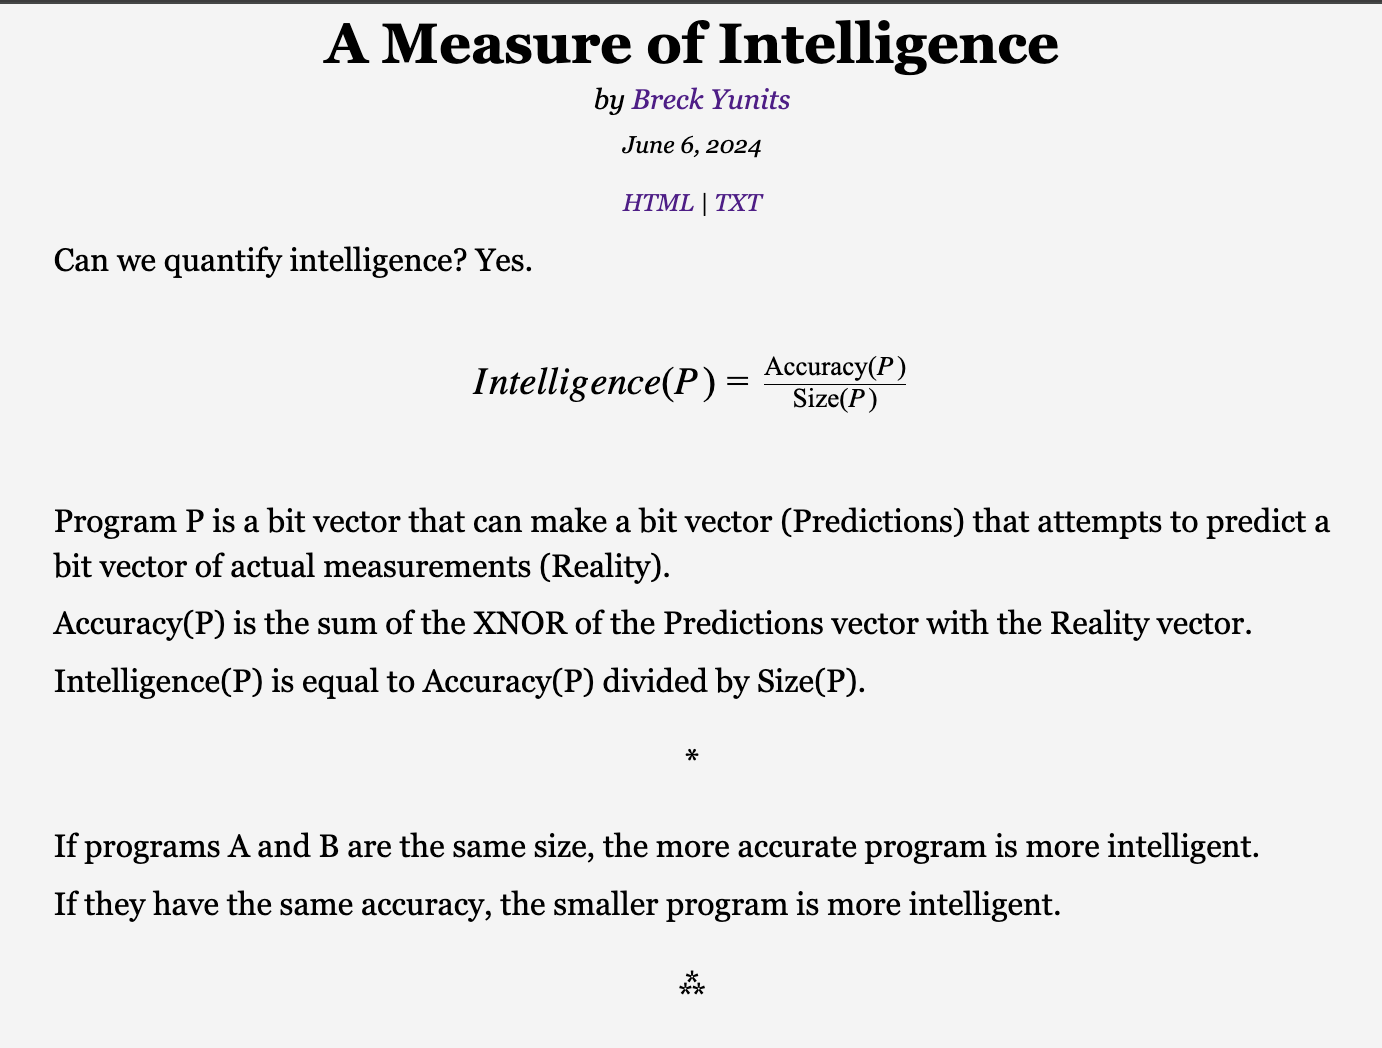
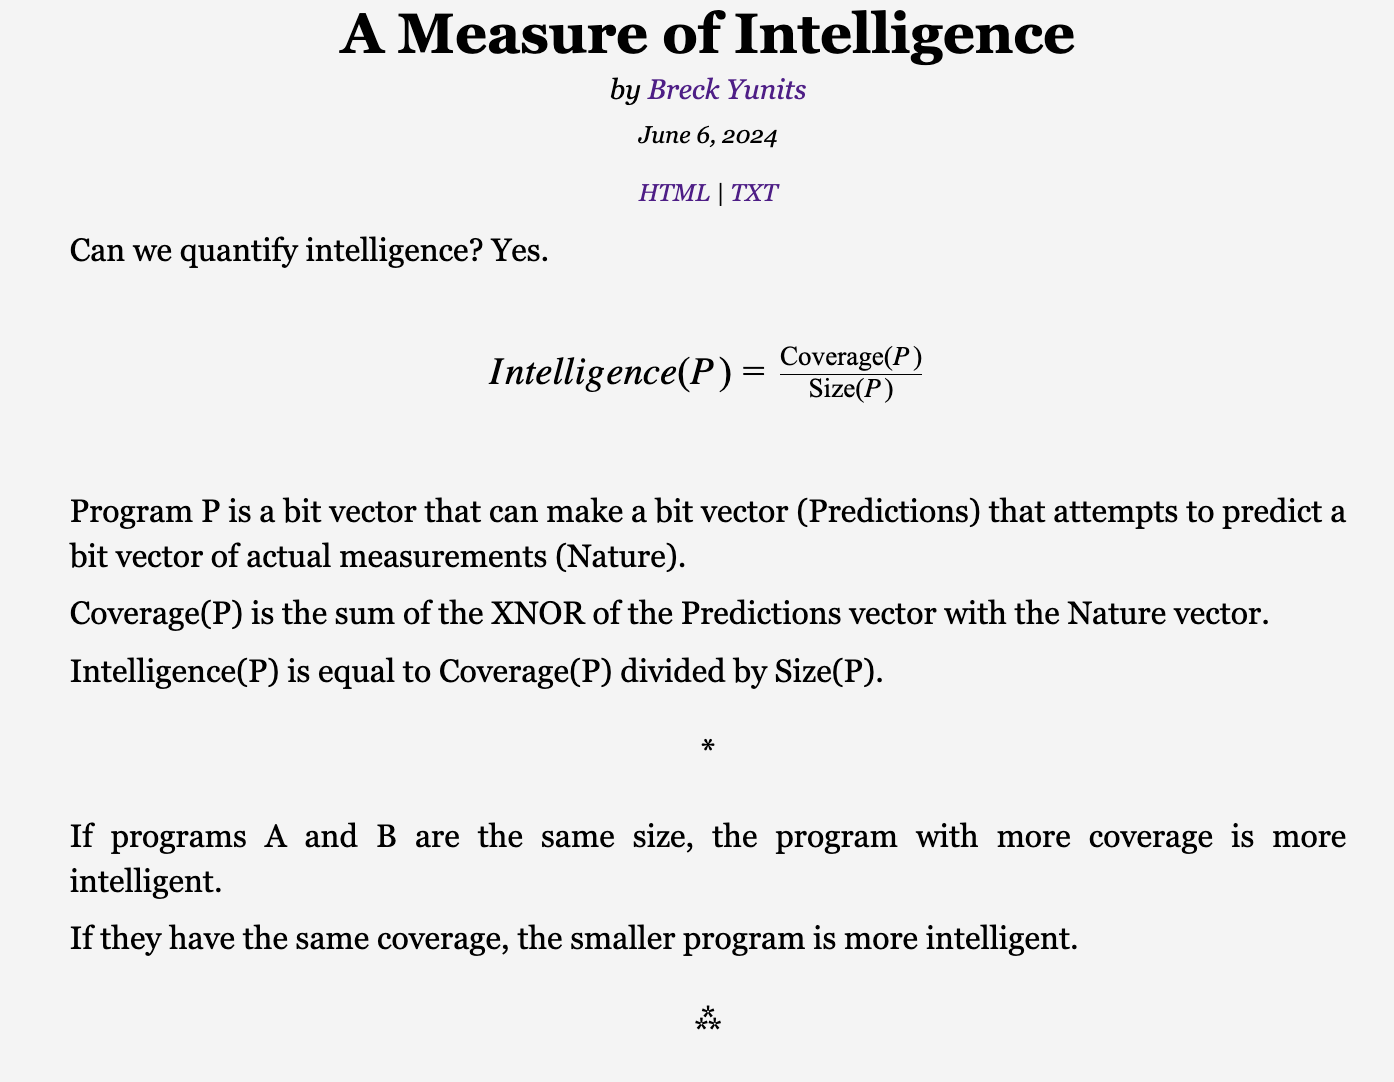
Deploying to scroll-output from @ thepiyushmalhotra/breckyunits.com@ff49966cba011bf642931cb9d87caeae7a22509f 🚀

diff --git a/intelligence.html b/intelligence.html
@@ -383,15 +383,15 @@ document.addEventListener("DOMContentLoaded", () => document.querySelectorAll(".
 ))
 </script>
 
-<div class="scrollKatex" id="1">{Intelligence}(P) = \frac{\text{Accuracy}(P)}{\text{Size}(P)}</div>
+<div class="scrollKatex" id="1">{Intelligence}(P) = \frac{\text{Coverage}(P)}{\text{Size}(P)}</div>
 </center>
 <br><br>
-<p class="scrollParagraph">Program P is a bit vector that can make a bit vector (Predictions) that attempts to predict a bit vector of actual measurements (Reality).</p>
-<p class="scrollParagraph">Accuracy(P) is the sum of the XNOR of the Predictions vector with the Reality vector.</p>
-<p class="scrollParagraph">Intelligence(P) is equal to Accuracy(P) divided by Size(P).</p>
+<p class="scrollParagraph">Program P is a bit vector that can make a bit vector (Predictions) that attempts to predict a bit vector of actual measurements (Nature).</p>
+<p class="scrollParagraph">Coverage(P) is the sum of the XNOR of the Predictions vector with the Nature vector.</p>
+<p class="scrollParagraph">Intelligence(P) is equal to Coverage(P) divided by Size(P).</p>
 <div class="dinkus"><span>*</span></div>
-<p class="scrollParagraph">If programs A and B are the same size, the more accurate program is more intelligent.</p>
-<p class="scrollParagraph">If they have the same accuracy, the smaller program is more intelligent.</p>
+<p class="scrollParagraph">If programs A and B are the same size, the program with more coverage is more intelligent.</p>
+<p class="scrollParagraph">If they have the same coverage, the smaller program is more intelligent.</p>
 <div class="dinkus"><span>⁂</span></div>
 <div class="scrollKeyboardNav" style="display:none;"><a href="i-guess-the-time-had-come.html">i-guess-the-time-had-come.html</a> · intelligence.html · <a href="pcri.html">pcri.html</a><script>document.addEventListener('keydown', function(event) {
   if (document.activeElement !== document.body) return

diff --git a/search.html b/search.html
@@ -397,9 +397,9 @@ h4.scrollQuestion {
 <th>minutes</th>
 </tr></thead>
 <tbody><tr><td><a href="intelligence.html">A Measure of Intelligence</a></td>
-<td>A Measure of Intelligence ========================= by Breck Yunits June 6, 2024  HTML | TXT  https://breckyunits.com/intelligence.html  https://breckyunits.com/intelligence.txt  Can we quantify intelligence? Yes.  {Intelligence}(P) = \frac{\text{Accuracy}(P)}{\text{Size}(P)}  Intelligence(P) = Accuracy(P) / Size(P)  Program P is a bit vector that can make a bit vector (Predictions) that attempts to predict a bit vector of actual measurements (Reality).  Accuracy(P) is the sum of the XNOR of the Predictions vector with the Reality vector.  Intelligence(P) is equal to Accuracy(P) divided by Size(P).  ***  If programs A and B are the same size, the more accurate program is more intelligent.  If they have the same accuracy, the smaller program is more intelligent.  **** </td>
+<td>A Measure of Intelligence ========================= by Breck Yunits June 6, 2024  HTML | TXT  https://breckyunits.com/intelligence.html  https://breckyunits.com/intelligence.txt  Can we quantify intelligence? Yes.  {Intelligence}(P) = \frac{\text{Coverage}(P)}{\text{Size}(P)}  Intelligence(P) = Coverage(P) / Size(P)  Program P is a bit vector that can make a bit vector (Predictions) that attempts to predict a bit vector of actual measurements (Nature).  Coverage(P) is the sum of the XNOR of the Predictions vector with the Nature vector.  Intelligence(P) is equal to Coverage(P) divided by Size(P).  ***  If programs A and B are the same size, the program with more coverage is more intelligent.  If they have the same coverage, the smaller program is more intelligent.  **** </td>
 <td>06/06/2024</td>
-<td>121</td>
+<td>122</td>
 <td>0.6</td>
 </tr>
 <tr><td><a href="pcri.html">PCRI</a></td>

diff --git a/full.html b/full.html
@@ -386,15 +386,15 @@ document.addEventListener("DOMContentLoaded", () => document.querySelectorAll(".
 ))
 </script>
 
-<div class="scrollKatex" id="1">{Intelligence}(P) = \frac{\text{Accuracy}(P)}{\text{Size}(P)}</div>
+<div class="scrollKatex" id="1">{Intelligence}(P) = \frac{\text{Coverage}(P)}{\text{Size}(P)}</div>
 </center>
 <br><br>
-<p class="scrollParagraph">Program P is a bit vector that can make a bit vector (Predictions) that attempts to predict a bit vector of actual measurements (Reality).</p>
-<p class="scrollParagraph">Accuracy(P) is the sum of the XNOR of the Predictions vector with the Reality vector.</p>
-<p class="scrollParagraph">Intelligence(P) is equal to Accuracy(P) divided by Size(P).</p>
+<p class="scrollParagraph">Program P is a bit vector that can make a bit vector (Predictions) that attempts to predict a bit vector of actual measurements (Nature).</p>
+<p class="scrollParagraph">Coverage(P) is the sum of the XNOR of the Predictions vector with the Nature vector.</p>
+<p class="scrollParagraph">Intelligence(P) is equal to Coverage(P) divided by Size(P).</p>
 <div class="dinkus"><span>*</span></div>
-<p class="scrollParagraph">If programs A and B are the same size, the more accurate program is more intelligent.</p>
-<p class="scrollParagraph">If they have the same accuracy, the smaller program is more intelligent.</p>
+<p class="scrollParagraph">If programs A and B are the same size, the program with more coverage is more intelligent.</p>
+<p class="scrollParagraph">If they have the same coverage, the smaller program is more intelligent.</p>
 <div class="dinkus"><span>⁂</span></div><p class="scrollViewSource">
  <a href="https://github.com/breck7/breckyunits.com/blob/main/intelligence.scroll">View source</a>
 </p>

diff --git a/index.html b/index.html
@@ -406,12 +406,12 @@ document.addEventListener("DOMContentLoaded", () => document.querySelectorAll(".
 ))
 </script>
 
-<div class="scrollKatex" id="1">{Intelligence}(P) = \frac{\text{Accuracy}(P)}{\text{Size}(P)}</div>
+<div class="scrollKatex" id="1">{Intelligence}(P) = \frac{\text{Coverage}(P)}{\text{Size}(P)}</div>
 </center>
 <br><br>
-<p class="scrollParagraph">Program P is a bit vector that can make a bit vector (Predictions) that attempts to predict a bit vector of actual measurements (Reality).</p>
-<p class="scrollParagraph">Accuracy(P) is the sum of the XNOR of the Predictions vector with the Reality vector.</p>
-<p class="scrollParagraph">Intelligence(P) is equal to Accuracy(P) divided by Size(P).</p><a class="scrollContinueReadingLink" href="intelligence.html">Continue reading...</a></div>
+<p class="scrollParagraph">Program P is a bit vector that can make a bit vector (Predictions) that attempts to predict a bit vector of actual measurements (Nature).</p>
+<p class="scrollParagraph">Coverage(P) is the sum of the XNOR of the Predictions vector with the Nature vector.</p>
+<p class="scrollParagraph">Intelligence(P) is equal to Coverage(P) divided by Size(P).</p><a class="scrollContinueReadingLink" href="intelligence.html">Continue reading...</a></div>
 
 <div class="scrollSnippetContainer"><style>img {border: 2px solid #e9e9e9; border-radius: 5px;}</style>
 <div class="scrollSection"><h1 class="scrollTitle"><a href="pcri.html">PCRI</a></h1>

diff --git a/programming.html b/programming.html
@@ -406,12 +406,12 @@ document.addEventListener("DOMContentLoaded", () => document.querySelectorAll(".
 ))
 </script>
 
-<div class="scrollKatex" id="1">{Intelligence}(P) = \frac{\text{Accuracy}(P)}{\text{Size}(P)}</div>
+<div class="scrollKatex" id="1">{Intelligence}(P) = \frac{\text{Coverage}(P)}{\text{Size}(P)}</div>
 </center>
 <br><br>
-<p class="scrollParagraph">Program P is a bit vector that can make a bit vector (Predictions) that attempts to predict a bit vector of actual measurements (Reality).</p>
-<p class="scrollParagraph">Accuracy(P) is the sum of the XNOR of the Predictions vector with the Reality vector.</p>
-<p class="scrollParagraph">Intelligence(P) is equal to Accuracy(P) divided by Size(P).</p><a class="scrollContinueReadingLink" href="intelligence.html">Continue reading...</a></div>
+<p class="scrollParagraph">Program P is a bit vector that can make a bit vector (Predictions) that attempts to predict a bit vector of actual measurements (Nature).</p>
+<p class="scrollParagraph">Coverage(P) is the sum of the XNOR of the Predictions vector with the Nature vector.</p>
+<p class="scrollParagraph">Intelligence(P) is equal to Coverage(P) divided by Size(P).</p><a class="scrollContinueReadingLink" href="intelligence.html">Continue reading...</a></div>
 
 <div class="scrollSnippetContainer"><style>img {border: 2px solid #e9e9e9; border-radius: 5px;}</style>
 <div class="scrollSection"><h1 class="scrollTitle"><a href="pcri.html">PCRI</a></h1>

diff --git a/treeNotation.html b/treeNotation.html
@@ -406,12 +406,12 @@ document.addEventListener("DOMContentLoaded", () => document.querySelectorAll(".
 ))
 </script>
 
-<div class="scrollKatex" id="1">{Intelligence}(P) = \frac{\text{Accuracy}(P)}{\text{Size}(P)}</div>
+<div class="scrollKatex" id="1">{Intelligence}(P) = \frac{\text{Coverage}(P)}{\text{Size}(P)}</div>
 </center>
 <br><br>
-<p class="scrollParagraph">Program P is a bit vector that can make a bit vector (Predictions) that attempts to predict a bit vector of actual measurements (Reality).</p>
-<p class="scrollParagraph">Accuracy(P) is the sum of the XNOR of the Predictions vector with the Reality vector.</p>
-<p class="scrollParagraph">Intelligence(P) is equal to Accuracy(P) divided by Size(P).</p><a class="scrollContinueReadingLink" href="intelligence.html">Continue reading...</a></div>
+<p class="scrollParagraph">Program P is a bit vector that can make a bit vector (Predictions) that attempts to predict a bit vector of actual measurements (Nature).</p>
+<p class="scrollParagraph">Coverage(P) is the sum of the XNOR of the Predictions vector with the Nature vector.</p>
+<p class="scrollParagraph">Intelligence(P) is equal to Coverage(P) divided by Size(P).</p><a class="scrollContinueReadingLink" href="intelligence.html">Continue reading...</a></div>
 
 <div class="scrollSnippetContainer"><style>img {border: 2px solid #e9e9e9; border-radius: 5px;}</style>
 <div class="scrollSection"><h1 class="scrollTitle"><a href="pcri.html">PCRI</a></h1>
